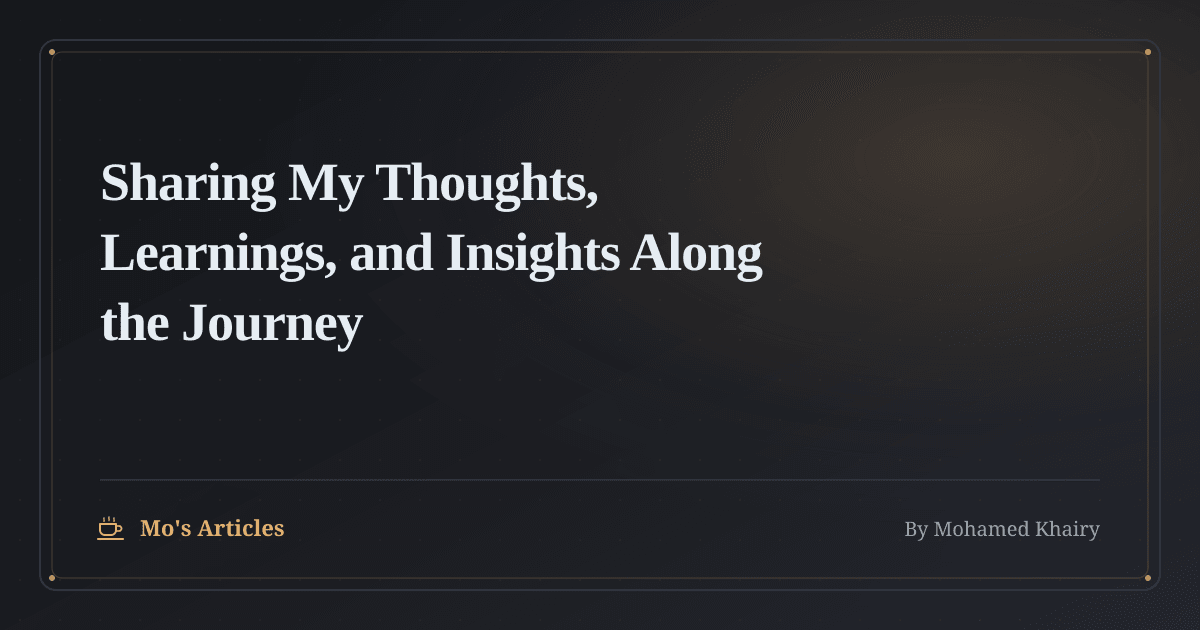
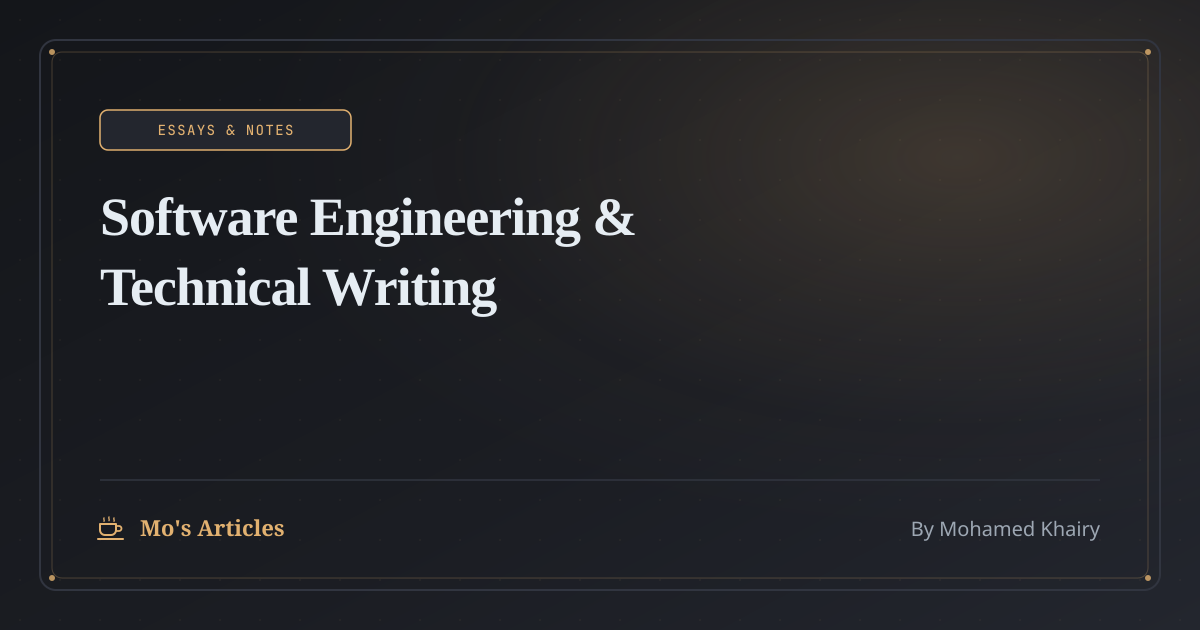
improve image optimizer, fix lqip and og card banding, and clean up duplicates

Changed region(s): [[0.0617, 0.1508, 0.6475, 0.573], [0.74, 0.8143, 0.925, 0.8746]]

diff --git a/src/lib/og-image.ts b/src/lib/og-image.ts
@@ -19,21 +19,43 @@ function escapeXml(unsafe: string): string {
     .replace(/'/g, '&apos;');
 }
 
-function wrapText(text: string, maxCharsPerLine: number = 32): string[] {
-  const words = text.split(' ');
+function wrapText(text: string, maxCharsPerLine: number = 30): string[] {
+  const rawWords = text.trim().split(/\s+/).filter(Boolean);
+  const words: string[] = [];
+
+  // Hard-break any single word longer than maxCharsPerLine so it never overflows the card
+  for (const w of rawWords) {
+    if (w.length <= maxCharsPerLine) {
+      words.push(w);
+    } else {
+      for (let i = 0; i < w.length; i += maxCharsPerLine - 1) {
+        const chunk = w.slice(i, i + maxCharsPerLine - 1);
+        words.push(i + maxCharsPerLine - 1 < w.length ? `${chunk}-` : chunk);
+      }
+    }
+  }
+
   const lines: string[] = [];
   let currentLine = '';
 
   for (const word of words) {
-    if ((currentLine + ' ' + word).trim().length <= maxCharsPerLine) {
-      currentLine = (currentLine + ' ' + word).trim();
+    const candidate = currentLine ? `${currentLine} ${word}` : word;
+    if (candidate.length <= maxCharsPerLine) {
+      currentLine = candidate;
     } else {
       if (currentLine) lines.push(currentLine);
       currentLine = word;
     }
   }
   if (currentLine) lines.push(currentLine);
-  return lines.slice(0, 3); // Max 3 lines to fit comfortably
+
+  if (lines.length > 3) {
+    const third = lines[2].replace(/[.,;:!?\s-]+$/, '');
+    const clipped = third.length >= maxCharsPerLine ? third.slice(0, maxCharsPerLine - 1).trimEnd() : third;
+    return [lines[0], lines[1], `${clipped}…`];
+  }
+
+  return lines;
 }
 
 export async function generateOgImage(options: OgImageOptions): Promise<Buffer> {
@@ -55,7 +77,7 @@ export async function generateOgImage(options: OgImageOptions): Promise<Buffer> 
   const titleSpans = titleLines
     .map((line, index) => {
       const y = titleYStart + (index * 70);
-      return `<text x="100" y="${y}" font-family="Fraunces, Georgia, 'Times New Roman', serif" font-size="54" font-weight="700" fill="#E6EDF3" letter-spacing="-0.02em">${escapeXml(line)}</text>`;
+      return `<text x="100" y="${y}" font-family="Fraunces, Georgia, 'Times New Roman', 'Noto Sans', 'Noto Sans Arabic', serif" font-size="54" font-weight="600" fill="#E6EDF3" letter-spacing="-0.02em">${escapeXml(line)}</text>`;
     })
     .join('\n');
 
@@ -103,7 +125,7 @@ export async function generateOgImage(options: OgImageOptions): Promise<Buffer> 
       ? `<!-- Category Badge Pill -->
   <g transform="translate(100, 110)">
     <rect width="${Math.max(140, escapedCategory.length * 11.5 + 44)}" height="40" rx="8" fill="#23262E" stroke="#E2B170" stroke-width="1.5" />
-    <text x="${(Math.max(140, escapedCategory.length * 11.5 + 44)) / 2}" y="25" font-family="'JetBrains Mono', Courier, monospace" font-size="14" font-weight="600" fill="#E2B170" text-anchor="middle" letter-spacing="0.1em">${escapedCategory}</text>
+    <text x="${(Math.max(140, escapedCategory.length * 11.5 + 44)) / 2}" y="25" font-family="'JetBrains Mono', 'Noto Sans', Courier, monospace" font-size="14" font-weight="500" fill="#E2B170" text-anchor="middle" letter-spacing="0.1em">${escapedCategory}</text>
   </g>`
       : ''
   }
@@ -126,17 +148,17 @@ export async function generateOgImage(options: OgImageOptions): Promise<Buffer> 
     <line x1="-2" y1="19" x2="23" y2="19" stroke="#E2B170" stroke-width="2" stroke-linecap="round" />
     
     <!-- Site Name (Vertically Centered with Icon) -->
-    <text x="40" y="16" font-family="Fraunces, Georgia, serif" font-size="22" font-weight="700" fill="#E2B170">${escapedSiteName}</text>
+    <text x="40" y="16" font-family="Fraunces, Georgia, serif" font-size="22" font-weight="600" fill="#E2B170">${escapedSiteName}</text>
   </g>
 
   <!-- Footer Right: Author Name -->
   <g transform="translate(1100, 520)">
-    <text x="0" y="16" font-family="'Source Serif 4', Georgia, serif" font-size="20" font-weight="500" fill="#9DA7B3" text-anchor="end">By ${escapedAuthor}</text>
+    <text x="0" y="16" font-family="'Source Serif 4', Georgia, 'Noto Sans', serif" font-size="20" font-weight="500" fill="#9DA7B3" text-anchor="end">By ${escapedAuthor}</text>
   </g>
 </svg>
 `.trim();
 
   return sharp(Buffer.from(svg))
-    .png({ palette: true, quality: 90, compressionLevel: 9 })
+    .png({ compressionLevel: 9 })
     .toBuffer();
 }

diff --git a/src/plugins/remark-obsidian.ts b/src/plugins/remark-obsidian.ts
@@ -57,7 +57,7 @@ function renderResponsiveFigure(
 
   const loadingAttr = isFirstImage ? 'loading="eager" fetchpriority="high"' : 'loading="lazy"';
   const sizesAttr = explicitWidth
-    ? `${explicitWidth}px`
+    ? `(max-width: ${explicitWidth + 32}px) calc(100vw - 2rem), ${explicitWidth}px`
     : '(min-width: 760px) 720px, calc(100vw - 2rem)';
 
   const styleParts: string[] = [];
@@ -65,7 +65,9 @@ function renderResponsiveFigure(
     styleParts.push(`background: url(${imgInfo.placeholder}) center/cover no-repeat`);
   }
   const styleAttr = styleParts.length > 0 ? ` style="${styleParts.join('; ')}"` : '';
-  const dataFullAttr = imgInfo.fullAvifUrl ? ` data-full="${escapeHtml(imgInfo.fullAvifUrl)}"` : '';
+  const onloadAttr = imgInfo.placeholder ? ` onload="this.style.background='none'"` : '';
+  const fullUrl = imgInfo.optimizedUrl || imgInfo.fullAvifUrl;
+  const dataFullAttr = fullUrl ? ` data-full="${escapeHtml(fullUrl)}"` : '';
 
   const avifVariants = imgInfo.variants?.avif || [];
   const webpVariants = imgInfo.variants?.webp || [];
@@ -74,9 +76,9 @@ function renderResponsiveFigure(
   if (avifVariants.length > 0 && webpVariants.length > 0) {
     const avifSrcset = avifVariants.map((v) => `${v.src} ${v.w}w`).join(', ');
     const webpSrcset = webpVariants.map((v) => `${v.src} ${v.w}w`).join(', ');
-    mediaMarkup = `<picture><source type="image/avif" srcset="${avifSrcset}" sizes="${sizesAttr}" /><img src="${imgInfo.optimizedUrl}" srcset="${webpSrcset}" sizes="${sizesAttr}" alt="${safeAlt}" width="${renderWidth}" height="${renderHeight}" ${loadingAttr} decoding="async" class="zoomable-image"${styleAttr}${dataFullAttr} /></picture>`;
+    mediaMarkup = `<picture><source type="image/avif" srcset="${avifSrcset}" sizes="${sizesAttr}" /><img src="${imgInfo.optimizedUrl}" srcset="${webpSrcset}" sizes="${sizesAttr}" alt="${safeAlt}" width="${renderWidth}" height="${renderHeight}" ${loadingAttr} decoding="async" class="zoomable-image"${styleAttr}${onloadAttr}${dataFullAttr} /></picture>`;
   } else {
-    mediaMarkup = `<img src="${imgInfo.optimizedUrl}" alt="${safeAlt}" width="${renderWidth}" height="${renderHeight}" ${loadingAttr} decoding="async" class="zoomable-image"${styleAttr}${dataFullAttr} />`;
+    mediaMarkup = `<img src="${imgInfo.optimizedUrl}" alt="${safeAlt}" width="${renderWidth}" height="${renderHeight}" ${loadingAttr} decoding="async" class="zoomable-image"${styleAttr}${onloadAttr}${dataFullAttr} />`;
   }
 
   const captionMarkup = hasExplicitCaption ? `<figcaption>${safeAlt}</figcaption>` : '';
@@ -264,6 +266,8 @@ export function remarkObsidian(this: any) {
       }
     });
 
+    const earlyTopLevelNodes = new Set(Array.isArray(tree.children) ? tree.children.slice(0, 3) : []);
+
     // 2. Intercept mermaid code blocks before Shiki syntax highlighter touches them
     visit(tree, 'code', (node: any, index: any, parent: any) => {
       if (node.lang === 'mermaid' && parent && typeof index === 'number') {
@@ -276,6 +280,7 @@ export function remarkObsidian(this: any) {
 
     // 3. Process text nodes for ==highlights==, [[wikilinks]], ![[embeds]], and #tags
     visit(tree, 'paragraph', (paragraphNode: any) => {
+      const isEarlyBlock = earlyTopLevelNodes.has(paragraphNode);
       const newChildren: any[] = [];
 
       for (const child of paragraphNode.children) {
@@ -329,7 +334,7 @@ export function remarkObsidian(this: any) {
             const imgInfo = resolveImage(target);
 
             if (imgInfo) {
-              const isFirstImage = imageCounter === 0;
+              const isFirstImage = imageCounter === 0 && isEarlyBlock;
               imageCounter++;
               newChildren.push({
                 type: 'html',
@@ -438,7 +443,8 @@ export function remarkObsidian(this: any) {
       const imgInfo = resolveImage(cleanUrl);
 
       if (imgInfo && parent && typeof index === 'number') {
-        const isFirstImage = imageCounter === 0;
+        const isEarlyBlock = earlyTopLevelNodes.has(node) || earlyTopLevelNodes.has(parent);
+        const isFirstImage = imageCounter === 0 && isEarlyBlock;
         imageCounter++;
         parent.children[index] = {
           type: 'html',

diff --git a/src/lib/images.ts b/src/lib/images.ts
@@ -16,7 +16,6 @@ export interface OptimizedImageInfo {
   sourcePath: string;
   optimizedUrl: string;
   fullAvifUrl?: string;
-  ogUrl?: string;
   width: number;
   height: number;
   format: string;
@@ -60,7 +59,6 @@ function loadManifest(): Map<string, OptimizedImageInfo> {
         sourcePath: entry.sourcePath,
         optimizedUrl: getPath(entry.src || entry.optimizedUrl),
         fullAvifUrl: entry.fullAvifUrl ? getPath(entry.fullAvifUrl) : getPath(entry.src || entry.optimizedUrl),
-        ogUrl: entry.ogUrl ? getPath(entry.ogUrl) : undefined,
         width: entry.width,
         height: entry.height,
         format: entry.format || 'webp',
@@ -71,8 +69,6 @@ function loadManifest(): Map<string, OptimizedImageInfo> {
       };
 
       imageRegistry.set(key.toLowerCase(), info);
-      imageRegistry.set(entry.filename.toLowerCase(), info);
-      imageRegistry.set(entry.filename, info);
     }
     hasLoaded = true;
   } catch (err: any) {
@@ -117,7 +113,7 @@ export function getAllImages(): OptimizedImageInfo[] {
   loadManifest();
   const unique = new Map<string, OptimizedImageInfo>();
   for (const info of imageRegistry.values()) {
-    unique.set(info.filename.toLowerCase(), info);
+    unique.set(info.sourcePath.toLowerCase(), info);
   }
   return Array.from(unique.values());
 }

diff --git a/src/pages/og/[category]/[slug].png.ts b/src/pages/og/[category]/[slug].png.ts
@@ -45,7 +45,6 @@ export const GET: APIRoute = async ({ props }) => {
     status: 200,
     headers: {
       'Content-Type': 'image/png',
-      'Cache-Control': 'public, max-age=31536000, immutable',
     },
   });
 };
